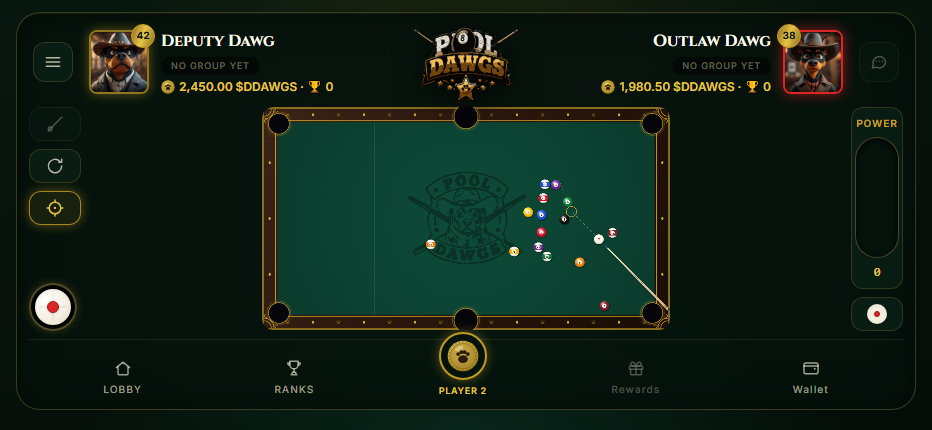
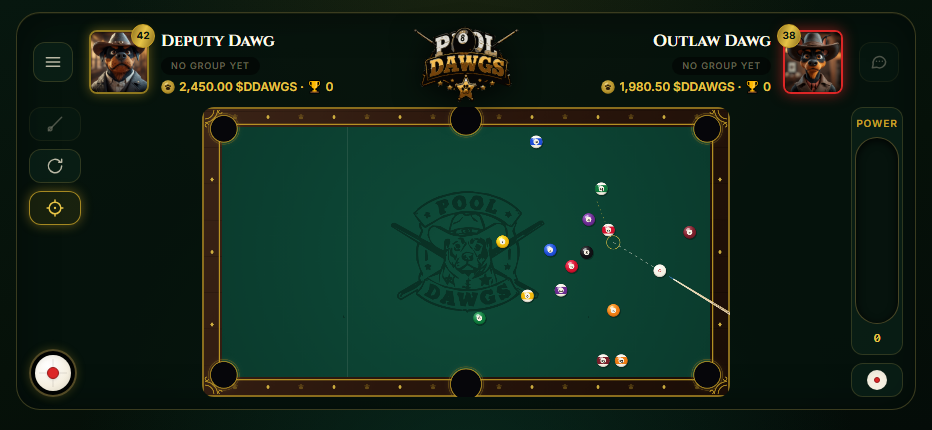
update game

diff --git a/apps/web/components/PoolCanvas.tsx b/apps/web/components/PoolCanvas.tsx
@@ -118,6 +118,8 @@ const PoolCanvas = forwardRef<PoolCanvasHandle, PoolCanvasProps>(function PoolCa
   const canvasRef = useRef<HTMLCanvasElement>(null);
   const mouse = useRef({ x: TABLE_WIDTH / 2, y: TABLE_HEIGHT / 2 });
   const charging = useRef(false);
+  /** Touch ball-in-hand: dragging a ghost cue ball, dropped on release. */
+  const placingBall = useRef(false);
   const keysDown = useRef(new Set<string>());
   const lastTick = useRef(0);
   const playing = useRef<{
@@ -284,6 +286,10 @@ const PoolCanvas = forwardRef<PoolCanvasHandle, PoolCanvasProps>(function PoolCa
     };
   }
 
+  function legalCuePlacement(s: TableState, x: number, y: number): boolean {
+    return !isOutsideBorder(x, y) && !isInsideHole(x, y) && !overlapsBall(s, x, y);
+  }
+
   function handlePointerDown(e: React.PointerEvent) {
     const { state: s, interactive: canAct, power: current, onPlaceCueBall: place } =
       propsRef.current;
@@ -291,10 +297,17 @@ const PoolCanvas = forwardRef<PoolCanvasHandle, PoolCanvasProps>(function PoolCa
     if (!canAct || playing.current) return;
 
     if (s.ballInHand && place) {
-      const { x, y } = mouse.current;
-      if (!isOutsideBorder(x, y) && !isInsideHole(x, y) && !overlapsBall(s, x, y)) {
-        place(x, y);
+      if (e.pointerType === "touch") {
+        // Touch: grab the ghost cue ball and DRAG it into position (a moving
+        // ghost with a legal/illegal ring); it's dropped on release. Tapping a
+        // precise legal spot on a small screen was the problem.
+        placingBall.current = true;
+        e.currentTarget.setPointerCapture(e.pointerId);
+        return;
       }
+      // Mouse: hover shows the ghost, a click drops it at the cursor.
+      const { x, y } = mouse.current;
+      if (legalCuePlacement(s, x, y)) place(x, y);
       return;
     }
     if (s.balls[cueBallId(s)].inHole || s.gameOver) return;
@@ -319,6 +332,15 @@ const PoolCanvas = forwardRef<PoolCanvasHandle, PoolCanvasProps>(function PoolCa
   }
 
   function handlePointerUp() {
+    // Touch ball-in-hand: drop the dragged cue ball at the released position
+    // if it's legal (otherwise keep it in hand so the player can re-drag).
+    if (placingBall.current) {
+      placingBall.current = false;
+      const { state: s, onPlaceCueBall: place } = propsRef.current;
+      const { x, y } = mouse.current;
+      if (s.ballInHand && place && legalCuePlacement(s, x, y)) place(x, y);
+      return;
+    }
     // Touch never charges from the canvas, so there's nothing to release here.
     if (!charging.current) return;
     charging.current = false;
@@ -331,8 +353,9 @@ const PoolCanvas = forwardRef<PoolCanvasHandle, PoolCanvasProps>(function PoolCa
   }
 
   function handlePointerMove(e: React.PointerEvent) {
-    // Mouse updates aim on hover; touch updates it while dragging.
-    if (e.pointerType === "touch" && e.buttons === 0) return;
+    // Mouse updates aim/ghost on hover; touch updates it while a finger is
+    // down (aiming, or dragging the ball-in-hand ghost).
+    if (e.pointerType === "touch" && e.buttons === 0 && !placingBall.current) return;
     mouse.current = toTable(e);
   }
 

diff --git a/apps/web/app/practice/page.tsx b/apps/web/app/practice/page.tsx
@@ -61,13 +61,21 @@ export default function PracticePage() {
     [gameType, reRack]
   );
 
-  // Dev/design preview: /practice?preview=win shows the winner popup.
+  // Dev hooks via query param: ?preview=win shows the winner popup;
+  // ?preview=ballinhand starts with the cue ball in hand (placement testing).
   useEffect(() => {
-    if (new URLSearchParams(window.location.search).get("preview") === "win") {
+    const preview = new URLSearchParams(window.location.search).get("preview");
+    if (preview === "win") {
       const won = createInitialState("8ball");
       won.gameOver = true;
       won.winner = 0;
       setState(won);
+    } else if (preview === "ballinhand") {
+      const s = createInitialState("8ball");
+      const cue = s.balls[s.balls.length - 1];
+      cue.inHole = true;
+      s.ballInHand = true;
+      setState(s);
     }
   }, []);
 
@@ -144,7 +152,7 @@ export default function PracticePage() {
       statusText={turnLabel}
       banner={
         state.ballInHand && !state.gameOver
-          ? "Ball in hand — tap the cloth to place the cue ball"
+          ? "Ball in hand — drag the cue ball to a clear spot to place it"
           : message
       }
       centerAction={state.gameOver ? { label: "PLAY AGAIN", onClick: () => reRack() } : null}

diff --git a/apps/web/app/game/[id]/page.tsx b/apps/web/app/game/[id]/page.tsx
@@ -667,7 +667,9 @@ function GameRoom() {
       statusText={statusText}
       banner={
         serverError ??
-        (myTurn && state.ballInHand ? "Ball in hand — tap the cloth to place the cue ball" : null)
+        (myTurn && state.ballInHand
+          ? "Ball in hand — drag the cue ball to a clear spot to place it"
+          : null)
       }
       menuItems={[
         ...(mySeat !== null && !snapshot.over
